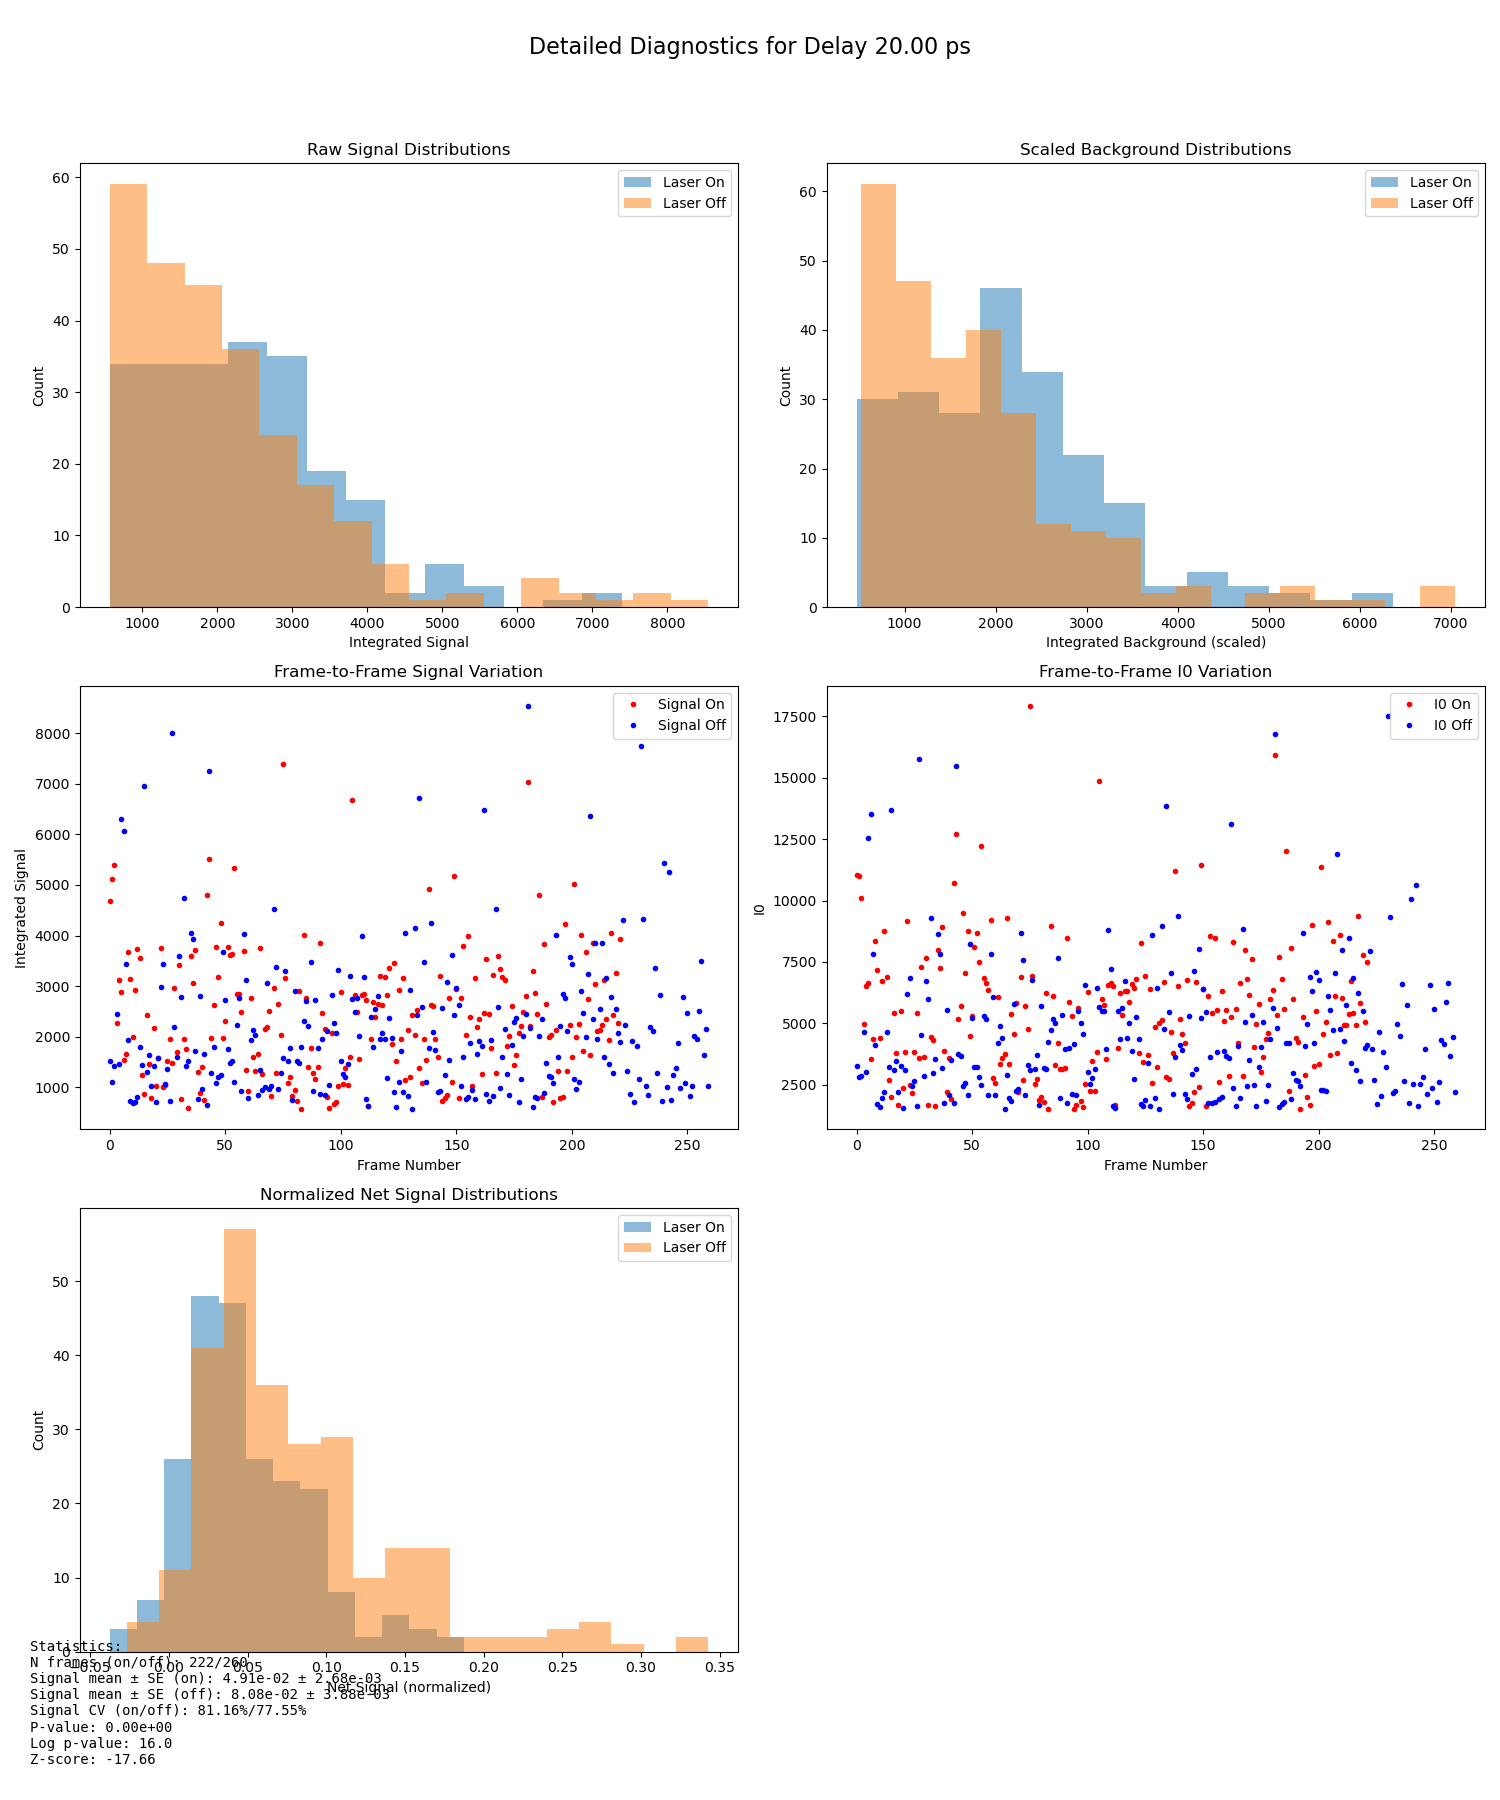
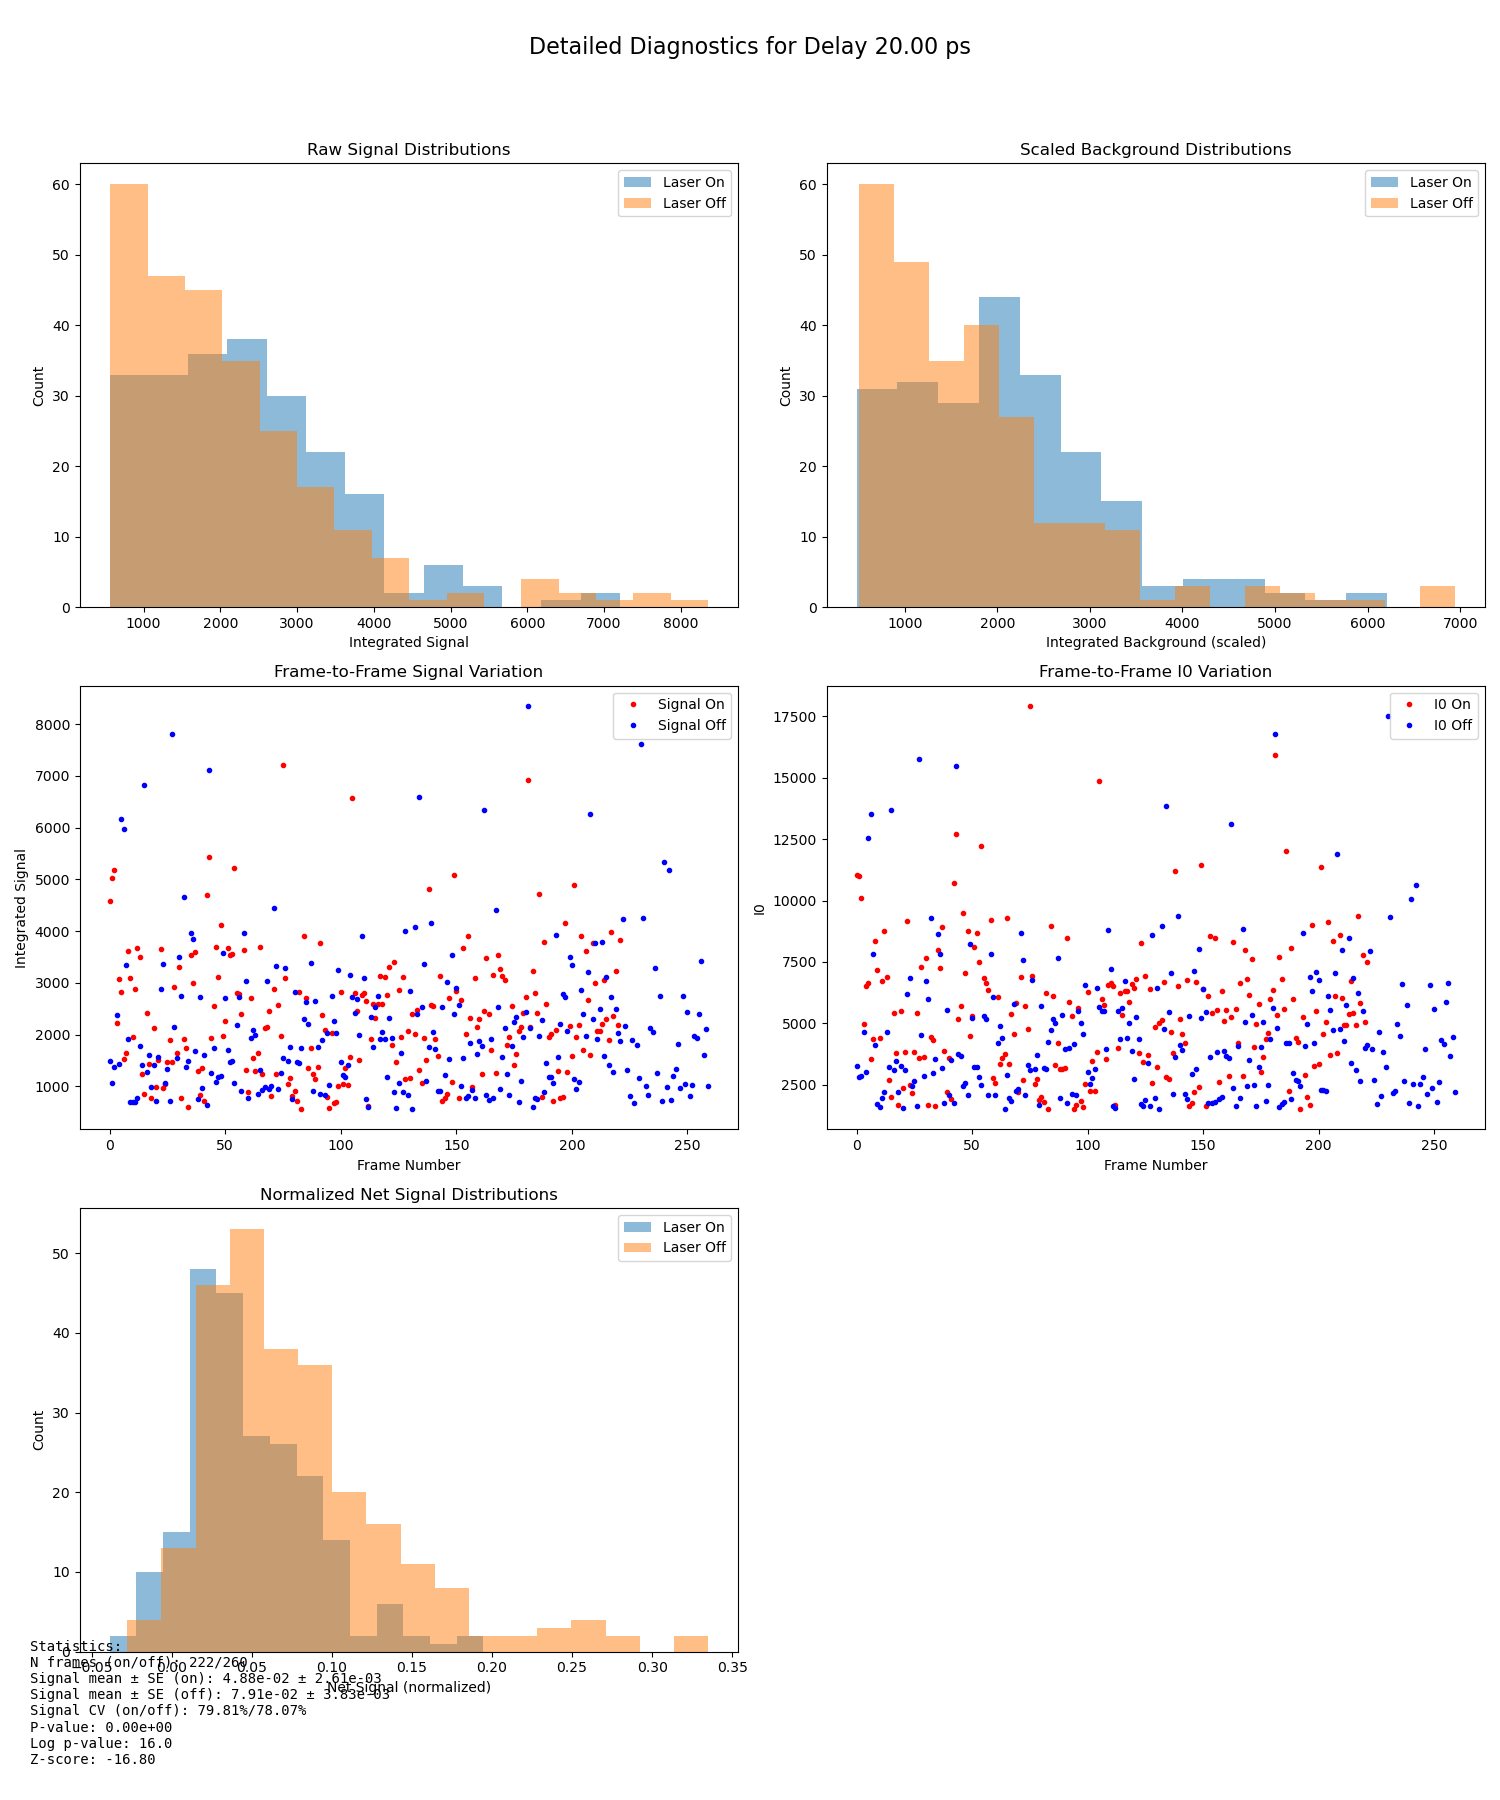
fix energy thresholds

diff --git a/btx/processing/tasks/make_histogram.py b/btx/processing/tasks/make_histogram.py
@@ -1,37 +1,47 @@
 from pathlib import Path
-from typing import Dict, Any, Tuple
+from typing import Dict, Any
 import numpy as np
 import matplotlib.pyplot as plt
+from numba import jit
 import functools
 import hashlib
 import random
-from numba import jit
+from numba.core.errors import NumbaWarning
+import warnings
 
-from btx.processing.btx_types import MakeHistogramInput, MakeHistogramOutput
+# Suppress Numba TBB warning
+warnings.filterwarnings('ignore', category=NumbaWarning)
+
+class MakeHistogramInput:
+    def __init__(self, load_data_output):
+        self.load_data_output = load_data_output
+
+class MakeHistogramOutput:
+    def __init__(self, histograms, bin_edges, bin_centers):
+        self.histograms = histograms
+        self.bin_edges = bin_edges
+        self.bin_centers = bin_centers
 
 def memoize_subsampled(func):
     """Memoize a function by creating a hashable key using deterministically subsampled data."""
     cache = {}
 
     @functools.wraps(func)
-    def wrapper(self, data, *args, **kwargs):  # Add 'self' as first parameter
-        # Generate a hashable key from a deterministic subsample
-        shape_str = str(data.shape)  # Now data is the actual array
+    def wrapper(self, data, *args, **kwargs):
+        shape_str = str(data.shape)
         seed_value = int(hashlib.sha256(shape_str.encode()).hexdigest(), 16) % 10**8
         random.seed(seed_value)
 
-        subsample_size = min(100, data.shape[0])  # Limit the subsample size to a maximum of 100
+        subsample_size = min(100, data.shape[0])
         subsample_indices = random.sample(range(data.shape[0]), subsample_size)
         subsample = data[subsample_indices]
 
         hashable_key = hashlib.sha256(subsample.tobytes()).hexdigest()
 
-        # Check cache
         if hashable_key in cache:
             return cache[hashable_key]
 
-        # Calculate the result and store it in the cache
-        result = func(self, data, *args, **kwargs)  # Pass self to the original function
+        result = func(self, data, *args, **kwargs)
         cache[hashable_key] = result
 
         return result
@@ -40,14 +50,16 @@ def memoize_subsampled(func):
 
 @jit(nopython=True)
 def _calculate_histograms_numba(data, bin_boundaries, hist_start_bin, bins, rows, cols):
-    """Numba-optimized histogram calculation."""
+    """Numba-optimized histogram calculation optimized for F-order arrays."""
     hist_shape = (bins, rows, cols)
     histograms = np.zeros(hist_shape, dtype=np.float64)
     
+    # Process one frame at a time, which is contiguous in memory with F-order
     for frame in range(data.shape[0]):
+        frame_data = data[frame]  # This slice is contiguous in F-order
         for row in range(rows):
             for col in range(cols):
-                value = data[frame, row, col]
+                value = frame_data[row, col]
                 bin_idx = np.searchsorted(bin_boundaries, value)
                 if bin_idx < bins:
                     histograms[bin_idx, row, col] += 1
@@ -58,19 +70,12 @@ def _calculate_histograms_numba(data, bin_boundaries, hist_start_bin, bins, rows
     return histograms[hist_start_bin:, :, :]
 
 class MakeHistogram:
-    """Generate histograms from XPP data."""
+    """Generate histograms from XPP data with F-order optimization."""
     
     def __init__(self, config: Dict[str, Any]):
-        """Initialize histogram generation task.
-        
-        Args:
-            config: Dictionary containing:
-                - make_histogram.bin_boundaries: Array of bin boundaries
-                - make_histogram.hist_start_bin: Index of first bin to include
-        """
+        """Initialize histogram generation task."""
         self.config = config
         
-        # Set defaults if not provided
         if 'make_histogram' not in self.config:
             self.config['make_histogram'] = {}
         hist_config = self.config['make_histogram']
@@ -79,7 +84,6 @@ class MakeHistogram:
             hist_config['bin_boundaries'] = np.arange(5, 30, 0.2)
         if 'hist_start_bin' not in hist_config:
             hist_config['hist_start_bin'] = 1
-        
 
     @memoize_subsampled
     def _calculate_histograms(
@@ -91,13 +95,18 @@ class MakeHistogram:
         """Calculate histograms for each pixel using Numba optimization.
         
         Args:
-            data: 3D array (frames, rows, cols)
+            data: 3D array (frames, rows, cols) in Fortran order
             bin_boundaries: Array of histogram bin boundaries
             hist_start_bin: Index of first bin to include
             
         Returns:
             3D array of histograms (bins, rows, cols)
         """
+        # Validate inputs
+        assert isinstance(data, np.ndarray), f"Expected numpy array, got {type(data)}"
+        assert data.ndim == 3, f"Expected 3D array, got shape {data.shape}"
+        assert data.flags.f_contiguous, "Input array must be F-contiguous"
+        
         bins = len(bin_boundaries) - 1
         rows, cols = data.shape[1], data.shape[2]
         
@@ -116,7 +125,8 @@ class MakeHistogram:
         bin_boundaries = np.array(hist_config['bin_boundaries'])
         hist_start_bin = hist_config['hist_start_bin']
         
-        data = input_data.load_data_output.data
+        # Ensure data is in F-order
+        data = np.asarray(input_data.load_data_output.data, order='F')
         
         histograms = self._calculate_histograms(
             data,
@@ -124,9 +134,8 @@ class MakeHistogram:
             hist_start_bin
         )
         
-        # Calculate bin edges and centers correctly
-        bin_edges = bin_boundaries[hist_start_bin:-1]  # Exclude the last edge
-        bin_centers = (bin_boundaries[hist_start_bin:-1] + bin_boundaries[hist_start_bin+1:]) / 2
+        bin_edges = bin_boundaries[hist_start_bin:-1]
+        bin_centers = (bin_edges + bin_boundaries[hist_start_bin+1:]) / 2
         
         return MakeHistogramOutput(
             histograms=histograms,
@@ -138,10 +147,9 @@ class MakeHistogram:
         """Generate diagnostic plots."""
         save_dir.mkdir(parents=True, exist_ok=True)
         
-        # Create figure with subplots
-        fig = plt.figure(figsize=(12, 5))
+        fig = plt.figure(figsize=(15, 5))
         
-        # 1. Mean histogram across all pixels (log scale)
+        # Mean histogram across all pixels (log scale)
         ax1 = fig.add_subplot(121)
         mean_hist = np.mean(output.histograms, axis=(1, 2))
         ax1.semilogy(output.bin_centers, mean_hist, 'b-')
@@ -150,13 +158,12 @@ class MakeHistogram:
         ax1.set_ylabel('Counts')
         ax1.grid(True)
         
-        # 2. 2D map of histogram total counts
+        # 2D map of total counts
         ax2 = fig.add_subplot(122)
         total_counts = np.sum(output.histograms, axis=0)
         im2 = ax2.imshow(total_counts, cmap='viridis')
-        ax2.set_title('Histogram Total Counts Map')
+        ax2.set_title('Total Counts Map')
         plt.colorbar(im2, ax=ax2, label='Total Counts')
-        
         
         plt.tight_layout()
         plt.savefig(save_dir / 'make_histogram_diagnostics.png')

diff --git a/btx/processing/tasks/load_data.py b/btx/processing/tasks/load_data.py
@@ -35,7 +35,7 @@ class LoadData:
         """
         self.config = config
         
-    def _apply_energy_threshold(self, data: np.ndarray) -> np.ndarray:
+    def _apply_energy_threshold(self, data: np.ndarray):
         """Apply energy thresholding to the data.
         
         Args:
@@ -57,13 +57,14 @@ class LoadData:
         harmonic_mask = ((data >= thresh_1) & (data <= thresh_2)) | \
                        ((data >= thresh_3) & (data <= thresh_4)) | \
                        ((data >= thresh_5) & (data <= thresh_6))
-        global_mask = (data >= Emin) & (data <= Emax)
+        global_mask = (data > Emin) & (data <= Emax)
         
         # Apply both filters
         data_cleaned = data.copy()
-        data_cleaned[~(harmonic_mask & global_mask)] = 0
+        data_cleaned[~(harmonic_mask)] = 0
+        data[~(harmonic_mask & global_mask)] = 0
         
-        return data_cleaned
+        return data_cleaned, data
 
     def _calculate_binned_delays(self, raw_delays: np.ndarray) -> np.ndarray:
         """Calculate binned delays from raw delay values."""
@@ -147,7 +148,7 @@ class LoadData:
             )
             
         # Apply energy thresholding
-        data = self._apply_energy_threshold(data)
+        data, data_dual_energy_filter = self._apply_energy_threshold(data)
     
         # Calculate binned delays
         binned_delays = self._calculate_binned_delays(laser_delays)
@@ -158,7 +159,8 @@ class LoadData:
             laser_delays=laser_delays,
             laser_on_mask=laser_on_mask,
             laser_off_mask=laser_off_mask,
-            binned_delays=binned_delays
+            binned_delays=binned_delays,
+            data_dual_energy_filter=data_dual_energy_filter
         )
 
     def plot_diagnostics(self, output: LoadDataOutput, save_dir: Path) -> None:

diff --git a/btx/processing/btx_types.py b/btx/processing/btx_types.py
@@ -21,6 +21,7 @@ class LoadDataOutput:
     laser_on_mask: np.ndarray  # (frames,)
     laser_off_mask: np.ndarray  # (frames,)
     binned_delays: np.ndarray  # (frames,)
+    data_dual_energy_filter: Optional[np.ndarray] = None  # Optional (frames,) boolean array
 
 @dataclass
 class MakeHistogramInput:

diff --git a/btx/processing/scripts/xppl1030522.py b/btx/processing/scripts/xppl1030522.py
@@ -69,7 +69,7 @@ config = {
     },
     'load_data': {
         'roi': (130, 290, 95, 340), 
-        'energy_filter': [14.0, 5.0, 9.0, float('inf')],
+        'energy_filter': [9.0, 5.0, 9.0, float('inf')],
         'i0_threshold': 1500,
         'time_bin': 2.0,
         'time_tool': [0.0, 0.015]
